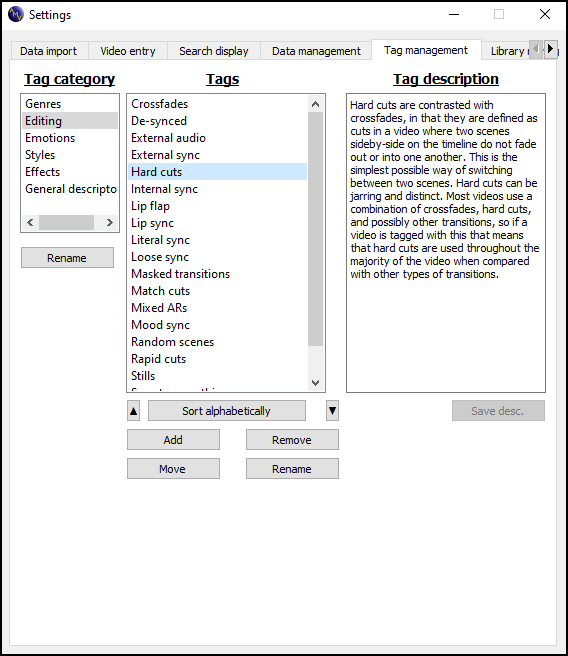
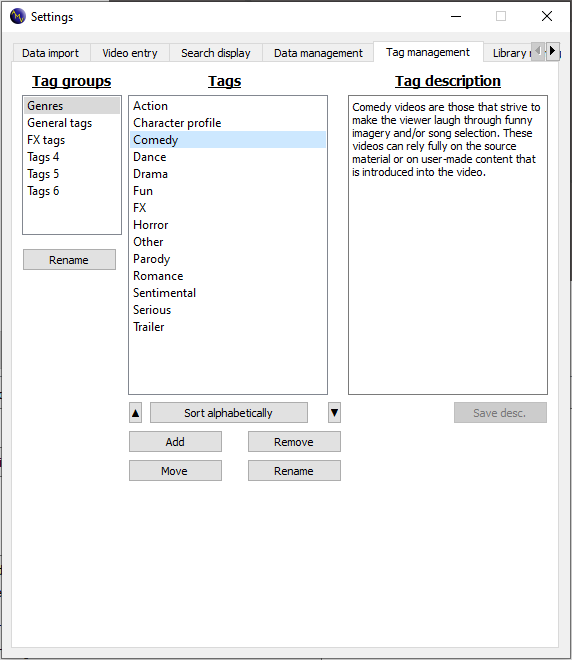
Adding images for wiki.

diff --git a/main_window/mainwindow.py b/main_window/mainwindow.py
@@ -1431,7 +1431,6 @@ class MainWindow(QtWidgets.QMainWindow):
 			bf_drop_cursor.execute('SELECT release_date FROM {}'.format(bf_drop_sub_db_internal))
 			dates = bf_drop_cursor.fetchall()
 			list_wid_pop = list(set([y[:4] for x in dates for y in x]))
-			print(list_wid_pop)
 			if '' in list_wid_pop:
 				list_wid_pop.remove('')
 			list_wid_pop.sort(reverse=True)
@@ -1477,7 +1476,6 @@ class MainWindow(QtWidgets.QMainWindow):
 			list_wid_pop.sort(key=lambda x: x.casefold())
 
 		elif filter_text == 'Video footage':
-			# TODO: "Single source only" should only list video footage if there is no other footage in the video
 			list_wid_pop = []
 			bf_drop_cursor.execute('SELECT video_footage FROM {}'.format(bf_drop_sub_db_internal))
 			for ftg_tup in bf_drop_cursor.fetchall():

diff --git a/misc_files/common_vars.py b/misc_files/common_vars.py
@@ -457,8 +457,9 @@ def transform_date(date):
 	trans_date_cursor = trans_date_conn.cursor()
 
 	trans_date_cursor.execute('SELECT value FROM search_settings WHERE setting_name = "date_format"')
-	format = trans_date_cursor.fetchone()[0]
+	d_format = trans_date_cursor.fetchone()[0]
 	date_vals = date.split('/')
-	out_date = QtCore.QDate(int(date_vals[0]), int(date_vals[1]), int(date_vals[2])).toString(format)
+	out_date = QtCore.QDate(int(date_vals[0]), int(date_vals[1]), int(date_vals[2])).toString(d_format)
 
 	return out_date
+

diff --git a/settings/data_management_settings.py b/settings/data_management_settings.py
@@ -160,7 +160,7 @@ class DataMgmtSettings(QtWidgets.QWidget):
 		self.importDrop = QtWidgets.QComboBox()
 		self.importDrop.setFixedWidth(180)
 		self.importDrop.addItem('Previous AMV Tracker version')
-		self.importDrop.addItem('CSV document')
+		# self.importDrop.addItem('CSV document')
 
 		"""self.pBar = QtWidgets.QProgressBar()
 		self.pBar.setGeometry(30, 40, 300, 25)

diff --git a/settings/tag_management.py b/settings/tag_management.py
@@ -21,7 +21,7 @@ class TagManagement(QtWidgets.QWidget):
         self.tagEditHeaderFont.setPixelSize(14)
 
         self.tagTypeLabel = QtWidgets.QLabel()
-        self.tagTypeLabel.setText('Tag category')
+        self.tagTypeLabel.setText('Tag groups')
         self.tagTypeLabel.setFont(self.tagEditHeaderFont)
 
         self.tagsLabel = QtWidgets.QLabel()

diff --git a/video_entry/entry_screen.py b/video_entry/entry_screen.py
@@ -2011,7 +2011,7 @@ class VideoEntry(QtWidgets.QMainWindow):
 			nothing_found_win.exec_()
 
 	def dl_org_video(self, url):
-		org_id = url.split('v=')[1]
+		org_id = url.split('=')[-1]
 		dl_url = 'https://www.animemusicvideos.org/members/localdownload-pancake.php?v={}&thead=yep&actionz=proceed'.format(
 			org_id)
 		webbrowser.open(dl_url)
